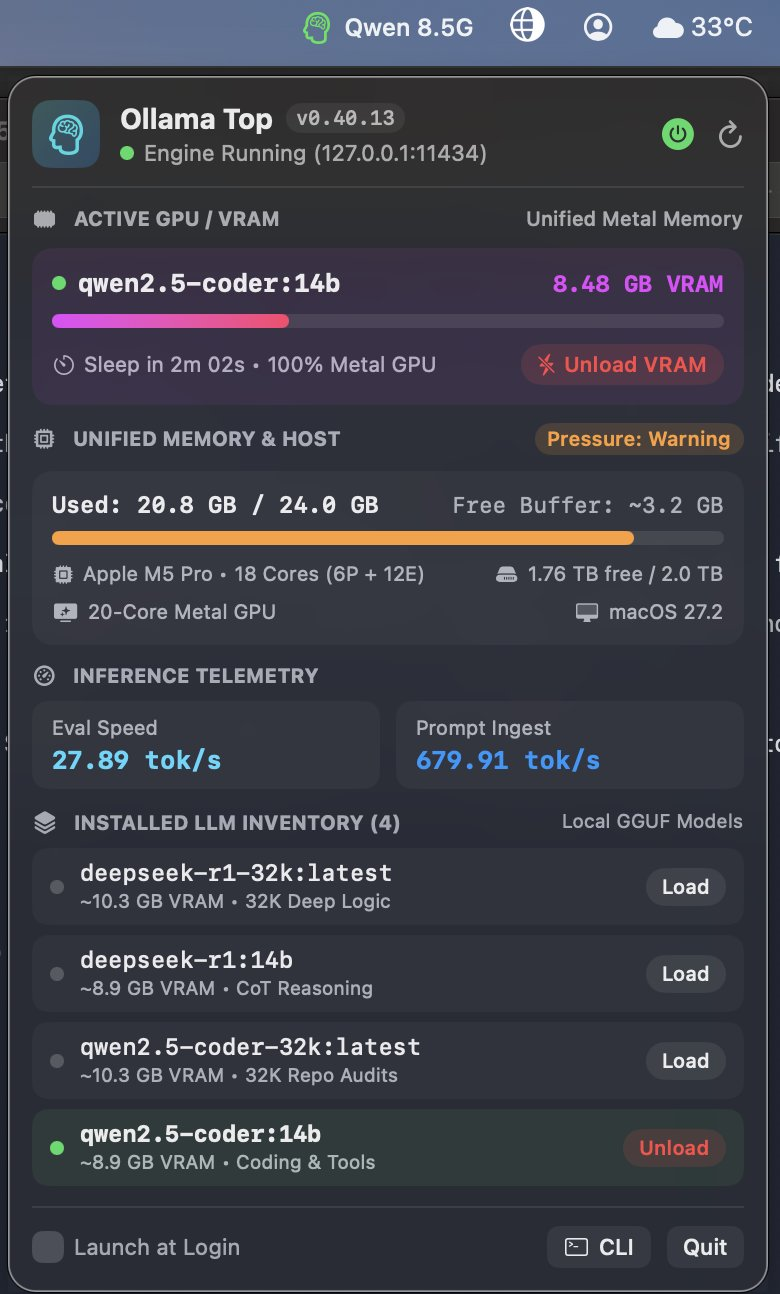
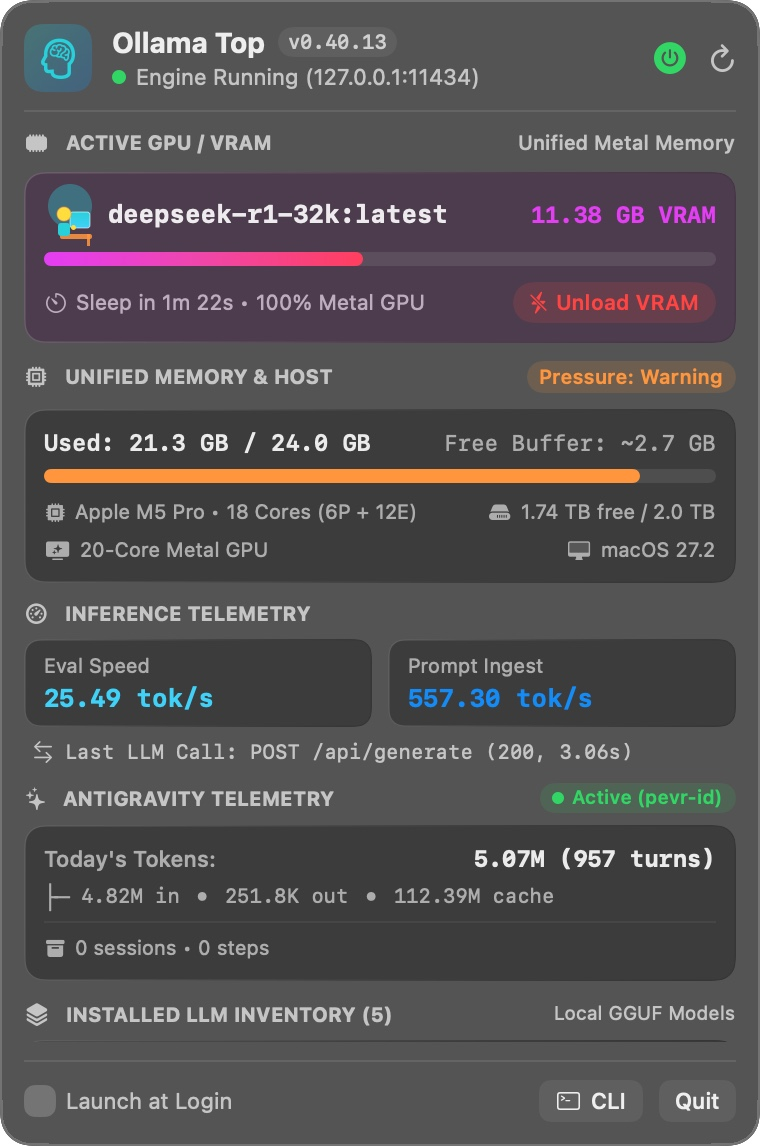
docs: update README with liquid glass UI & animated agent/bed sprites, refresh screenshot

diff --git a/menubar/OllamaTop.swift b/menubar/OllamaTop.swift
@@ -1600,6 +1600,20 @@ final class AppDelegate: NSObject, NSApplicationDelegate, NSWindowDelegate {
 
         setupFloatingPanel()
 
+        DistributedNotificationCenter.default().addObserver(
+            self,
+            selector: #selector(togglePanel(_:)),
+            name: NSNotification.Name("io.github.squallbayu.ollamatop.togglePanel"),
+            object: nil
+        )
+
+        DistributedNotificationCenter.default().addObserver(
+            self,
+            selector: #selector(captureScreenshotNotification(_:)),
+            name: NSNotification.Name("io.github.squallbayu.ollamatop.captureScreenshot"),
+            object: nil
+        )
+
         monitor.onMenuBarChange = { [weak self] state in
             self?.applyMenuBarState(state)
         }
@@ -1677,6 +1691,34 @@ final class AppDelegate: NSObject, NSApplicationDelegate, NSWindowDelegate {
             img?.isTemplate = false
             button.image = img
             button.title = " \(shortLabel)"
+        }
+    }
+
+    @objc private func captureScreenshotNotification(_ sender: AnyObject?) {
+        guard let targetView = effectView else { return }
+        if !panel.isVisible {
+            openPanelBelowMenuBar()
+        }
+
+        DispatchQueue.main.asyncAfter(deadline: .now() + 0.6) { [weak self] in
+            guard let self = self, let cv = self.effectView else { return }
+            let bounds = cv.bounds
+            guard bounds.width > 0, bounds.height > 0,
+                  let rep = cv.bitmapImageRepForCachingDisplay(in: bounds) else { return }
+            cv.cacheDisplay(in: bounds, to: rep)
+
+            let home = NSHomeDirectory()
+            let destPaths = [
+                "\(home)/programs/ollama/ollama-top/docs/assets/ollama-top-menubar.jpg",
+                "/tmp/ollama-top-menubar.jpg"
+            ]
+
+            if let jpgData = rep.representation(using: .jpeg, properties: [.compressionFactor: 0.92]) {
+                for dest in destPaths {
+                    try? jpgData.write(to: URL(fileURLWithPath: dest), options: .atomic)
+                }
+                print("==> Saved popover screenshot (\(Int(bounds.width))x\(Int(bounds.height))) to docs/assets/ollama-top-menubar.jpg")
+            }
         }
     }
 

diff --git a/README.md b/README.md
@@ -23,6 +23,10 @@ Built specifically for **Apple Silicon (M1 / M2 / M3 / M4 / M5)** Unified Memory
 ## ✨ Key Features
 
 - **🟢 Always-Visible Menu Bar Pill**: See at a single glance whether GPU Unified Memory is clean (`🧠 Idle`) or holding a resident LLM (`🧠 Qwen 8.5G`, `🧠 R1 8.5G`, `⚡ Off`) without leaving your IDE.
+- **✨ Apple Liquid Glass & Material Vibrancy UI**: Fully redesigned popover using Apple's modern `NSVisualEffectView.Material.hudWindow`, continuous squircle curvature (`.continuous`), specular hairline border refraction, and flush menu bar positioning matching native macOS Control Center, Battery, and Wi-Fi popovers.
+- **🎮 Animated Agent & Bed State Sprites**:
+  - **In Active GPU / VRAM**: An animated character typing at a glowing computer desk while the model is actively processing or resident in VRAM.
+  - **In Installed LLM Inventory**: An animated bed with a sleeping agent tucked under a breathing blanket and floating animated **"Zzz"** for standby models, automatically shifting to an **empty bed** when the model is hot-loaded into memory.
 - **⚡ One-Click & One-Key VRAM Eviction**: Reclaim 8–20+ GB of Unified Memory immediately (`Unload VRAM` button in Menu Bar or `[u]` in CLI) instead of waiting 5 minutes for Ollama's default `keep_alive` timeout.
 - **🔥 Warm Preload & Model Switching**: View your entire on-disk GGUF catalog (`/api/tags`) with estimated KV-cache VRAM footprints and preload any model into Metal GPU memory in one click.
 - **🍏 Native Darwin Mach Kernel Telemetry (`0.0%` CPU)**: Reads active, wired, and compressed Unified Memory pages and kernel VM pressure (`Normal` / `Warning` / `Critical`) directly in-process via `host_statistics64` and `sysctlbyname`—spawning zero background shell processes.
